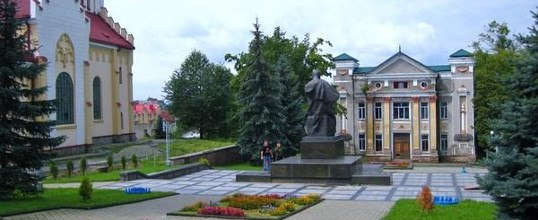
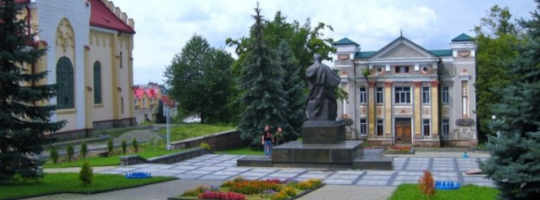
Change #4136

diff --git a/_includes/object/head.html b/_includes/object/head.html
@@ -38,9 +38,9 @@
 <link rel="shortlink" href="{{ site.url }}" />
 <link rel="canonical" href="{{ page.url | absolute_url }}" />
 {%- if file -%}
-<link rel="image_src" href="{{ file.path | url_decode | relative_url }}" />
+<link rel="image_src" href="{{ file.path | replace_first: '.', '_sm.' | url_decode | relative_url }}" />
 {%- else -%}
-<link rel="image_src" href="{{ '/assets/images/locations/default.jpg' | url_decode | relative_url }}" />
+<link rel="image_src" href="{{ '/assets/images/locations/default_sm.jpg' | url_decode | relative_url }}" />
 {%- endif -%}
 <meta name="keywords" content="{{ page.keywords | default: site.keywords | smartify }}" />
 <meta name="description" content="{{ page.description | default: site.description | smartify }}" />
@@ -59,15 +59,15 @@
 <meta property="og:title" content="{{ title | remove: ' · Мережа Вебсайтів Нерухомості' }}" />
 <meta property="og:description" content="{{ page.description | default: site.description | smartify }}" />
 {%- if file -%}
-<meta property="og:image" content="{{ file.path | url_decode | absolute_url }}" />
-<meta property="og:image:url" content="{{ file.path | url_decode | absolute_url }}" />
+<meta property="og:image" content="{{ file.path | replace_first: '.', '_sm.' | url_decode | absolute_url }}" />
+<meta property="og:image:url" content="{{ file.path | replace_first: '.', '_sm.' | url_decode | absolute_url }}" />
 <meta property="og:image:type" content="image/jpg" />
-<meta property="og:image:width" content="538" />
-<meta property="og:image:height" content="220" />
+<meta property="og:image:width" content="600" />
+<meta property="og:image:height" content="615" />
 {%- else -%}
-<meta property="og:image" content="{{ '/assets/images/locations/default.jpg' | url_decode | absolute_url }}" />
-<meta property="og:image:width" content="538" />
-<meta property="og:image:height" content="220" />
+<meta property="og:image" content="{{ '/assets/images/locations/default_sm.jpg' | url_decode | absolute_url }}" />
+<meta property="og:image:width" content="600" />
+<meta property="og:image:height" content="315" />
 {%- endif -%}
 <meta name="author" content="{{ site.developer.name }}" />
 <meta name="format-detection" content="telephone=no" />

diff --git a/_includes/meta-name.html b/_includes/meta-name.html
@@ -8,7 +8,7 @@
 {%- if file -%}
   <link rel="image_src" href="{{ picture | replace_first: '.', '_sm.' | prepend: site.url }}" />
 {%- else -%}
-  <link rel="image_src" href="{{ '/assets/images/locations/default.jpg' | url_decode | relative_url | prepend: site.url }}" />
+  <link rel="image_src" href="{{ '/assets/images/locations/default_sm.jpg' | url_decode | relative_url | prepend: site.url }}" />
 {%- endif -%}
 <meta name="keywords" content="{{ page.keywords | default: site.keywords | smartify }}" />
 <meta name="description" content="{{ page.description | default: site.description | smartify }}" />
@@ -32,7 +32,7 @@
   {%- assign extname = picture | split: '.' | last -%}
   <meta property="og:image:type" content="image/{{ extname }}" />
 {%- else -%}
-  <meta property="og:image" content="{{ '/assets/images/locations/default.jpg' | url_decode | absolute_url }}" />
+  <meta property="og:image" content="{{ '/assets/images/locations/default_sm.jpg' | url_decode | absolute_url }}" />
   <meta property="og:image:type" content="image/jpg" />
 {%- endif -%}
 <meta property="og:image:width" content="600" />

diff --git a/_includes/twitter-meta.html b/_includes/twitter-meta.html
@@ -7,7 +7,7 @@
 {%- if file -%}
 <meta name="twitter:image" content="{{ picture | replace_first: '.', '_sm.' | prepend: site.url }}">
 {%- else -%}
-<meta name="twitter:image" content="{{ '/assets/images/locations/default.jpg' | url_decode | relative_url | prepend: site.url }}">
+<meta name="twitter:image" content="{{ '/assets/images/locations/default_sm.jpg' | url_decode | relative_url | prepend: site.url }}">
 {%- endif -%}
 <meta name="twitter:image:width" content="600">
 <meta name="twitter:image:height" content="315">

diff --git a/region/index.html b/region/index.html
@@ -1,5 +1,5 @@
 ---
-last_modified_at: 2021-04-10T21:14:02+02:00
+last_modified_at: 2021-04-13T23:25:10+02:00
 title: Івано-Франківська обласна нерухомість
 navtitle: Область
 description: Нерухомість в містах обласного значення Івано-Франківської області міста Болехіві, Бурштині, Івано-Франківську, Калуші, Коломиї, Яремче

diff --git a/region/ivano-frankivska/map.html b/region/ivano-frankivska/map.html
@@ -1,5 +1,5 @@
 ---
-last_modified_at: 2021-04-13T16:20:50+02:00
+last_modified_at: 2021-04-13T23:25:10+02:00
 layout: map
 title: Оголошення про нерухомість на мапі Івано-Франківської області
 navtitle: Мапа Івано-Франківської області

diff --git a/index.html b/index.html
@@ -1,5 +1,5 @@
 ---
-last_modified_at: 2021-04-13T16:20:50+02:00
+last_modified_at: 2021-04-13T23:25:10+02:00
 layout: default
 title: Нерухомість в місті Івано-Франківськ та в Івано-Франківській області
 ---

diff --git a/region/city/index.html b/region/city/index.html
@@ -1,5 +1,5 @@
 ---
-last_modified_at: 2021-04-10T21:14:02+02:00
+last_modified_at: 2021-04-13T23:25:10+02:00
 title: Нерухомість в містах обласного значення
 navtitle: Міста обласного значення
 navhide: 1

diff --git a/region/city/yaremche/all.html b/region/city/yaremche/all.html
@@ -1,5 +1,5 @@
 ---
-last_modified_at: 2021-04-09T20:50:14+02:00
+last_modified_at: 2021-04-13T23:25:10+02:00
 layout: table
 title: Всі оголошення про нерухомість у місті Яремче
 navtitle: Вся нерухомість

diff --git a/region/city/yaremche/index.html b/region/city/yaremche/index.html
@@ -1,5 +1,5 @@
 ---
-last_modified_at: 2021-04-09T20:50:14+02:00
+last_modified_at: 2021-04-13T23:25:10+02:00
 layout: region
 title: Нерухомість в місті Яремче
 navtitle: місто Яремче

diff --git a/region/ivano-frankivska/index.html b/region/ivano-frankivska/index.html
@@ -1,5 +1,5 @@
 ---
-last_modified_at: 2021-04-13T16:20:50+02:00
+last_modified_at: 2021-04-13T23:25:10+02:00
 title: Нерухомість у Івано-Франківській області
 navtitle:
 navhide:

diff --git a/region/city/yaremche/map.html b/region/city/yaremche/map.html
@@ -1,5 +1,5 @@
 ---
-last_modified_at: 2021-04-09T20:50:14+02:00
+last_modified_at: 2021-04-13T23:25:10+02:00
 layout: map
 title: Нерухомість на мапі міста Яремче
 navtitle:

diff --git a/region/city/yaremche/apartment/index.html b/region/city/yaremche/apartment/index.html
@@ -1,5 +1,5 @@
 ---
-last_modified_at: 2021-04-09T17:27:01+02:00
+last_modified_at: 2021-04-13T23:25:10+02:00
 layout: table
 title: Продаж квартир
 navtitle: Квартири
